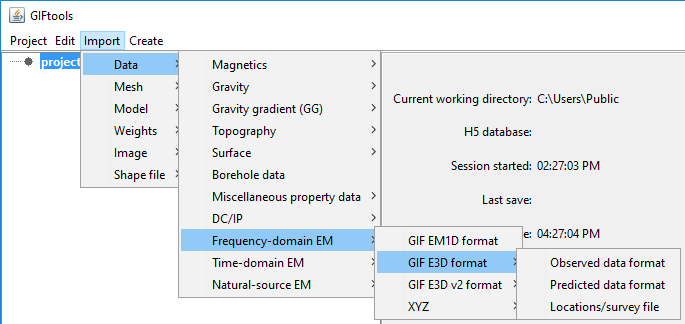
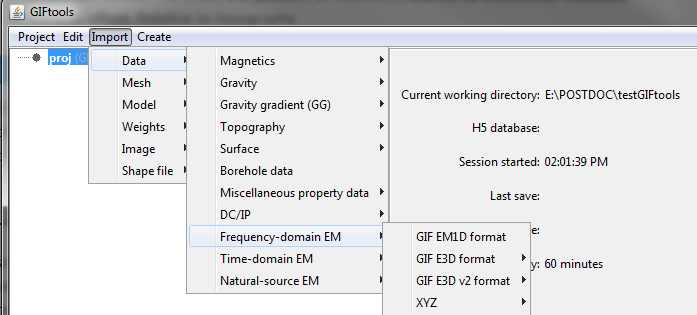
update to EM data importing

diff --git a/content/basicFunctionality/import/data.rst b/content/basicFunctionality/import/data.rst
@@ -332,14 +332,14 @@ menu:
 There are four types of FEM data that can be loaded from files:
 
 .. figure:: ../../../images/importFEMdata.png
-    :align: left
-    :width: 300
+    :align: center
+    :width: 400
 
 **File formats:**
 
     - :ref:`GIF EM1DFM format <importEM1DFMdata>`
-    - :ref:`GIF E3Dv1 format <importE3Dv1data>`
-    - :ref:`GIF E3Dv2 format <importE3Dv1data>`
+    - :ref:`GIF E3D format <importE3Dv1data>`
+    - :ref:`GIF E3D v2 format <importE3Dv1data>`
     - :ref:`XYZ format <importXYZemData>`
 
 |
@@ -379,12 +379,11 @@ The following parameters are set for the user:
 
 .. _importE3Dv1data:
 
-E3Dv1 format
-^^^^^^^^^^^^
+E3D format
+^^^^^^^^^^
 
-Loads data files formated for the original `E3Dv1 data file format <https://e3d.readthedocs.io/en/e3dinv/content/files/obsFile.html#observations-file>`_ .
-The function returns a :ref:`FEMdata <objectEMdtype_EMdata>` object where only the transmitter geometry is defined. The receivers are defined as point measurements that samples the fields (E, H) along the Cartesian axes.
-
+Loads data files formated for the original `E3D data file format <https://e3d.readthedocs.io/en/e3d/content/files/obsFile.html>`_ .
+The function returns an :ref:`FEMdata <objectEMdtype_EMdata>` object where only the transmitter geometry is defined. The receivers are defined as point measurements that samples the fields (E, H) along the Cartesian axes.
 
 **Import** |rarr| **Data** |rarr| **Frequency-domain EM** |rarr| **GIF E3D format**
 
@@ -397,20 +396,20 @@ The function returns a :ref:`FEMdata <objectEMdtype_EMdata>` object where only t
 
 .. _importE3Dv2data:
 
-E3Dv2 format
-^^^^^^^^^^^^
+E3D v2 format
+^^^^^^^^^^^^^
 
-Loads data used by the latest `E3Dv2 inversion code
-<https://e3d.readthedocs.io/en/e3dinv_ver2_tiled/index.html#e3d-version-2-tiled-package>`_.
-The function returns a :ref:`FEM3Dsounding <objectEMdtype_EM3Dsounding>` object.
+Loads data specifically formatted for the `E3D v2 <https://e3d.readthedocs.io/en/e3d_v2/content/files/obsFile.html>`_
+and `E3D v2 tiled <https://e3d.readthedocs.io/en/e3d_v2_tiled/content/files/obsFile.html>`_ codes.
+The function returns an :ref:`FEM3Dsounding <objectEMdtype_EM3Dsounding>` object.
 
-**Import** |rarr| **Data** |rarr| **Frequency-domain EM** |rarr| **GIF E3Dv2 format**
+**Import** |rarr| **Data** |rarr| **Frequency-domain EM** |rarr| **GIF E3D v2 format**
 
 .. figure:: ../../../images/importFEM_E3Dv2.png
-    :align: left
-    :width: 300
+    :align: center
+    :width: 400
 
-The receivers and transmitters are defined by their respective input files.
+The receivers and transmitters are defined by their respective input files. As a result, you will need 4 files when importing E3D v2 data:
 
     - `Data file <https://e3d.readthedocs.io/en/e3dinv_ver2_tiled/content/files/obsFile.html#observations-file>`_
     - `Frequency file <https://e3d.readthedocs.io/en/e3dinv_ver2_tiled/content/files/freqFile.html#frequencies-file>`_
@@ -431,14 +430,14 @@ There are four types of TEM data that can be loaded from files:
 **Import** |rarr| **Data** |rarr| **Time-domain EM**
 
 .. figure:: ../../../images/importTEMdata/importTEMdata.png
-    :align: left
-    :width: 300
+    :align: center
+    :width: 400
 
 
 **File formats:**
 
     - :ref:`GIF EM1DTM format <importEM1DTMdata>`
-    - :ref:`GIF H3DTD | TDoctree v1 format <importTDoctreeV1data>`
+    - :ref:`GIF H3DTD | TDoctree format <importTDoctreeV1data>`
     - :ref:`GIF TDoctree v2 format <importTDoctreeV2data>`
     - :ref:`XYZ format <importXYZemData>`
 
@@ -479,13 +478,13 @@ The following parameters are set for the user:
 
 .. _importTDoctreeV1data:
 
-H3DTD | TDoctree v1 format
-^^^^^^^^^^^^^^^^^^^^^^^^^^
+H3DTD | TDoctree format
+^^^^^^^^^^^^^^^^^^^^^^^
 
-Loads data files formated for the original `H3DTD data file format <https://e3d.readthedocs.io/en/e3dinv/content/files/obsFile.html#observations-file>`_ .
+Loads data files formated for the H3DTD, `TDoctree <https://tdoctree.readthedocs.io/en/tdoctree/content/files/obsFile.html>`_ and `TDoctree tiled <https://tdoctree.readthedocs.io/en/tdoctree_tiled/content/files/obsFile.html>`_ codes.
 The function returns a :ref:`TEMdata <objectEMdtype_EMdata>` object where only the transmitter geometry is defined. The receivers are defined as point measurements that samples the fields (E, H) along the Cartesian axes.
 
-**Import** |rarr| **Data** |rarr| **Time-domain EM** |rarr| **GIF H3DTD | TDoctree v1 format**
+**Import** |rarr| **Data** |rarr| **Time-domain EM** |rarr| **GIF H3DTD | TDoctree format**
 
 
 .. note:: The :ref:`TEMdata <objectEMdtype_EMdata>` object assumes that the provided field data have been measured along the Cartesian axes or that the user has rotated the fields in pre-processing. For more general cases with arbitrary receivers orientation (in-line), consider making use of the :ref:`TEM3Dsounding <objectEMdtype_EM3Dsounding>` class.
@@ -496,22 +495,21 @@ The function returns a :ref:`TEMdata <objectEMdtype_EMdata>` object where only t
 TDoctree v2 format
 ^^^^^^^^^^^^^^^^^^
 
-Loads data used by the latest `TDoctree v2 inversion code
-<https://e3d.readthedocs.io/en/e3dinv_ver2_tiled/index.html#e3d-version-2-tiled-package>`_.
+Loads data specifically formatted for the `TDoctree v2 <https://tdoctree.readthedocs.io/en/tdoctree_v2/content/files/obsFile.html>`_ code.
 The function returns a :ref:`TEM3Dsounding <objectEMdtype_EM3Dsounding>` object.
 
 **Import** |rarr| **Data** |rarr| **Time-domain EM** |rarr| **GIF TDoctree v2 format**
 
-.. figure:: ../../../images/importFEM_E3Dv2.png
-    :align: left
-    :width: 300
+.. figure:: ../../../images/importTEMdata/importTEMdata_v2.png
+    :align: center
+    :width: 400
 
-The receivers and transmitters are defined by their respective input files.
+The receivers and transmitters are defined by their respective input files. As a result, you will need 4 files when importing TDoctree v2 data:
 
-    - `Data file <https://e3d.readthedocs.io/en/e3dinv_ver2_tiled/content/files/obsFile.html#observations-file>`_
-    - `Frequency file <https://e3d.readthedocs.io/en/e3dinv_ver2_tiled/content/files/freqFile.html#frequencies-file>`_
-    - `Receiver file <https://e3d.readthedocs.io/en/e3dinv_ver2_tiled/content/files/receiverFile.html#transmitter-and-receiver-files>`_
-    - `Transmitter file <https://e3d.readthedocs.io/en/e3dinv_ver2_tiled/content/files/receiverFile.html#transmitter-and-receiver-files>`_
+    - `Data file <https://tdoctree.readthedocs.io/en/tdoctree_v2/content/files/obsFile.html>`_
+    - `Time channels file <https://tdoctree.readthedocs.io/en/tdoctree_v2/content/files/timeFile.html>`_
+    - `Receiver file <https://tdoctree.readthedocs.io/en/tdoctree_v2/content/files/receiverFile.html>`_
+    - `Transmitter file <https://tdoctree.readthedocs.io/en/tdoctree_v2/content/files/receiverFile.html>`_
 
 .. note:: Both the transmitters and receivers geometry are defined in 3D. The relative offsets can be calculated using the :ref:`Calculate Transmitter/Receiver separation <calculateTxRxSeperation>` function.
 
@@ -549,22 +547,22 @@ This step is used to define any remaining data columns. This might include orien
 
 .. _importNSEMData:
 
-Import natural-source EM data
------------------------------
+Import MT and/or ZTEM data
+--------------------------
 
 There are a few file options to import magnetotelluric (MT: impedance or apparent resistivity and phase) or Z-axis Tipper EM (ZTEM) data:
 
-**Import** |rarr| **Data** |rarr| **Natural-source EM** |rarr|
+**Import** |rarr| **Data** |rarr| **Natural-source EM**
 
 .. figure:: ../../../images/importMTGif.png
-    :align: left
+    :align: center
     :width: 400
 
 **File formats:**
 
     - :ref:`MTZ3D <importNSEMData_mtz3d>` formatted data
-    - :ref:`E3DMT version 1 <importNSEMData_e3dmt1>` formatted data
-    - :ref:`E3DMT version 2 <importNSEMData_e3dmt2>` formatted data
+    - :ref:`E3DMT <importNSEMData_e3dmt1>` formatted data
+    - :ref:`E3DMT v2 <importNSEMData_e3dmt2>` formatted data
     - :ref:`EDI <importNSEMData_edi>` formatted MT data
     - :ref:`ASCII <importNSEMData_ascii>` formatted ZTEM data
 
@@ -572,42 +570,32 @@ There are a few file options to import magnetotelluric (MT: impedance or apparen
 |
 |
 
-MT or ZTEM data: GIF format
-^^^^^^^^^^^^^^^^^^^^^^^^^^^
-
-To load MT data that are in a GIF-formatted structure, the menu structure is:
-
-**Import** |rarr| **Data** |rarr| **Natural-source EM** |rarr| **MT / ZTEM: GIF format** |rarr| **"Data type"**
-
-.. figure:: ../../../images/importMTGif.png
-    :align: left
-    :width: 400
-
 .. _importNSEMData_mtz3d:
 
-MTZ3D data
-~~~~~~~~~~
+MTZ3D format
+^^^^^^^^^^^^
 
-.. raw:: html
-    :file: ../../../underconstruction.html
+To load impedance tensor MT, apparent resistivity MT **or** ZTEM data that are formatted for the `MTZ3D <https://mtz3d.readthedocs.io/en/latest/content/files/obsFile.html>`_ code, the menu structure is:
+
+**Import** |rarr| **Data** |rarr| **Natural-source EM** |rarr| **GIF MTZ3D format**
 
 
 .. _importNSEMData_e3dmt1:
 
-E3DMT version 1 data
-~~~~~~~~~~~~~~~~~~~~
 
-`Observed/locations <https://e3dmt.readthedocs.io/en/manual_ver1/content/files/obsFile.html>`__ data and `predicted <https://e3dmt.readthedocs.io/en/manual_ver1/content/files/preFile.html>`__ data can be loaded from:
+E3DMT format
+~~~~~~~~~~~~
 
-    - **Import** |rarr| **Data** |rarr| **Natural-source EM** |rarr| **MT / ZTEM: GIF format** |rarr| **E3DMT Obeserved/Locations Data (ver 1)**
-    - **Import** |rarr| **Data** |rarr| **Natural-source EM** |rarr| **MT / ZTEM: GIF format** |rarr| **E3DMT Predicted Data (ver 1)**
+To load impedance tensor MT **and/or** ZTEM data that are formatted for the `E3DMT <https://e3dmt.readthedocs.io/en/e3dmt/content/files/obsFile.html>`_ code, the menu structure is:
 
-Some things to note about loading E3DMT version 1 observed/locations data:
+**Import** |rarr| **Data** |rarr| **Natural-source EM** |rarr| **GIF E3DMT format**
+
+Some things to note about loading E3DMT observed/locations data:
 
     - If MT and ZTEM are contained within the same file, GIFtools will parse into an IMPdata object and a ZTEMdata object
     - Although it is good practice, the locations for each frequency do not need to be the same. Frequency-location pairs without data are given a value of NaN.
 
-Some things to note about loading E3DMT version 1 predicted data:
+Some things to note about loading E3DMT predicted data:
 
     - The user must specify the ZTEM and or IMP data object(s) associated with the predicted data in the screen shown below. E3DMT version 1 does not support apparent resistiviy and phase data.
     - Let us assume multiple data objects were used to create the observations/locations file for the forward modeling/inversion. When loading the predicted data, the user must select the data objects in the same order they used to create the observations/locations file.
@@ -622,14 +610,18 @@ Some things to note about loading E3DMT version 1 predicted data:
 E3DMT version 2 data
 ~~~~~~~~~~~~~~~~~~~~
 
-`Observed/locations <https://e3dmt.readthedocs.io/en/manual_ver2/content/files/obsFile.html>`__ data and `predicted <https://e3dmt.readthedocs.io/en/manual_ver2/content/files/preFile.html>`__ data can be loaded from:
+To load impedance tensor MT **and/or** ZTEM data that are formatted for the `E3DMT v2 <https://e3dmt.readthedocs.io/en/e3dmt_v2/content/files/obsFile.html>`_ code, the menu structure is:
 
-    - **Import** |rarr| **Data** |rarr| **Natural-source EM** |rarr| **MT / ZTEM: GIF format** |rarr| **E3DMT Obeserved/Locations Data (ver 2)**
-    - **Import** |rarr| **Data** |rarr| **Natural-source EM** |rarr| **MT / ZTEM: GIF format** |rarr| **E3DMT Predicted Data (ver 2)**
+**Import** |rarr| **Data** |rarr| **Natural-source EM** |rarr| **GIF E3DMT v2 format**
+
+The receivers frequencies are defined by their respective input files. As a result, you will need 3 files when importing TDoctree v2 data:
+
+    - `Data file <https://e3dmt.readthedocs.io/en/e3dmt_v2/content/files/obsFile.html>`_
+    - `Frequencies file <https://e3dmt.readthedocs.io/en/e3dmt_v2/content/files/freqFile.html>`_
+    - `Receivers file <https://e3dmt.readthedocs.io/en/e3dmt_v2/content/files/receiverFile.html>`_
 
 .. note:: **About loading E3DMT version 2 observed/locations data**
 
-    - The user selects the `Observations <https://e3dmt.readthedocs.io/en/manual_ver2/content/files/obsFile.html>`__ / `survey index file <https://e3dmt.readthedocs.io/en/manual_ver2/content/files/indexFile.html>`__ from the first pop-up window, the `receivers file <https://e3dmt.readthedocs.io/en/manual_ver2/content/files/receiverFile.html>`__ from the second pop-up window, and the `frequencies file <https://e3dmt.readthedocs.io/en/manual_ver2/content/files/freqFile.html>`__ form the third pup-up window.
     - Although it is good practice, the locations for each frequency do not need to match. Frequency-location pairs without data are given a value of NaN.
     - The IDs for the receivers do not need to be in any particular order but they do need to be unique.
     - If the respective IDs for Hx and Hy receivers are all the same (e.g. a base station for ZTEM data), the resulting ZTEM data object will still have a datatype of *MTH*.
@@ -637,7 +629,7 @@ E3DMT version 2 data
 
 .. note:: **About loading E3DMT version 2 predicted data**
 
-    - The user must select the associated ZTEM or IMP data object when loading predicted data. E3DMT version 2 does not support apparent resistiviy and phase data.
+    - The user must select the associated ZTEM or IMP data object when loading predicted data. E3DMT version 2 does not support apparent resistivity and phase data.
 
 .. _importNSEMData_edi:
 
